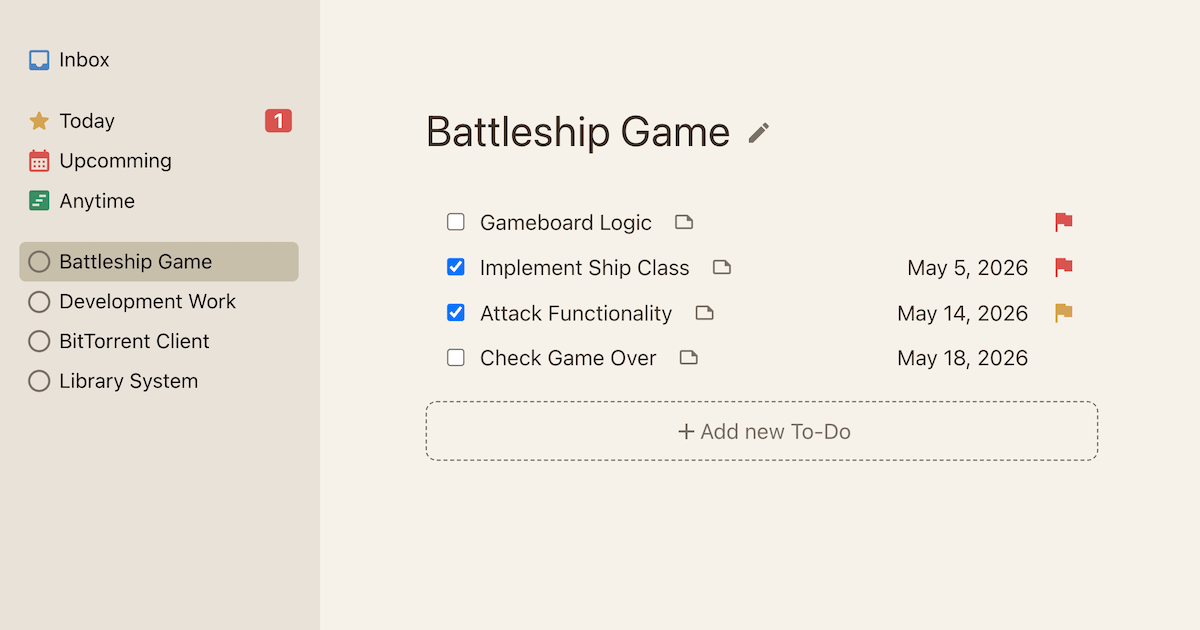
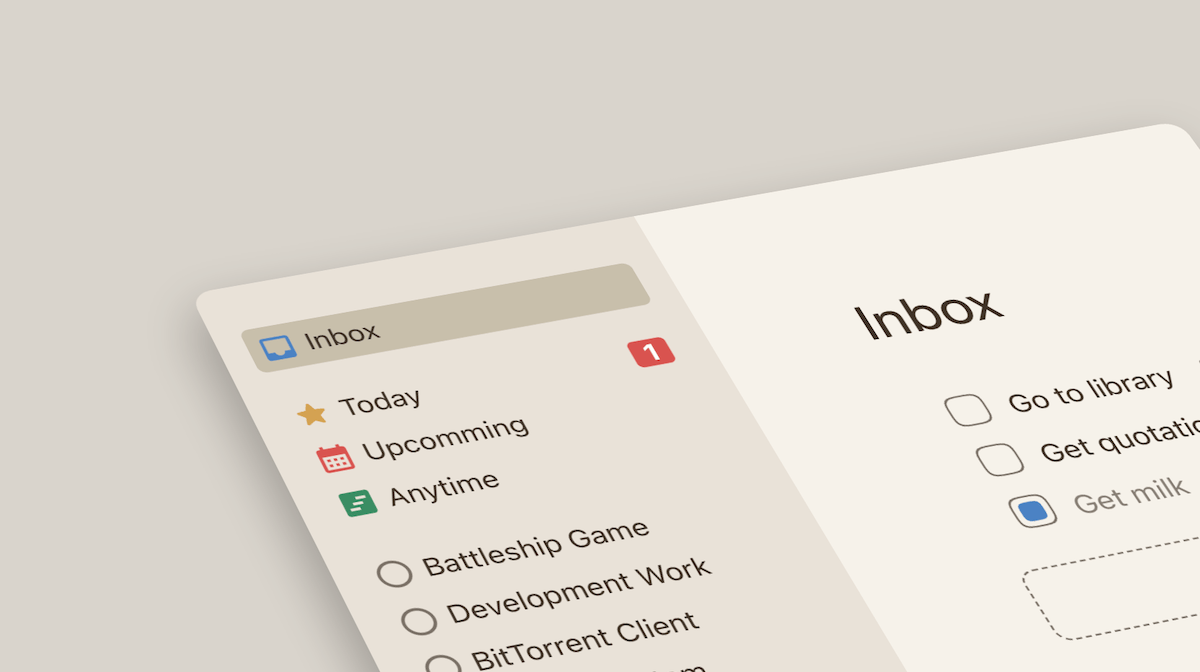
Update screenshot.

diff --git a/src/index.css b/src/index.css
@@ -316,6 +316,7 @@ dialog::backdrop {
 
   .todo-details {
     flex-grow: 1;
+    flex-wrap: wrap;
   }
 
   .todo-notes-indicator {
@@ -384,7 +385,7 @@ dialog::backdrop {
   .todo-due-date {
     display: flex;
     input {
-      width: 0;
+      width: 50px;
     }
   }
 
